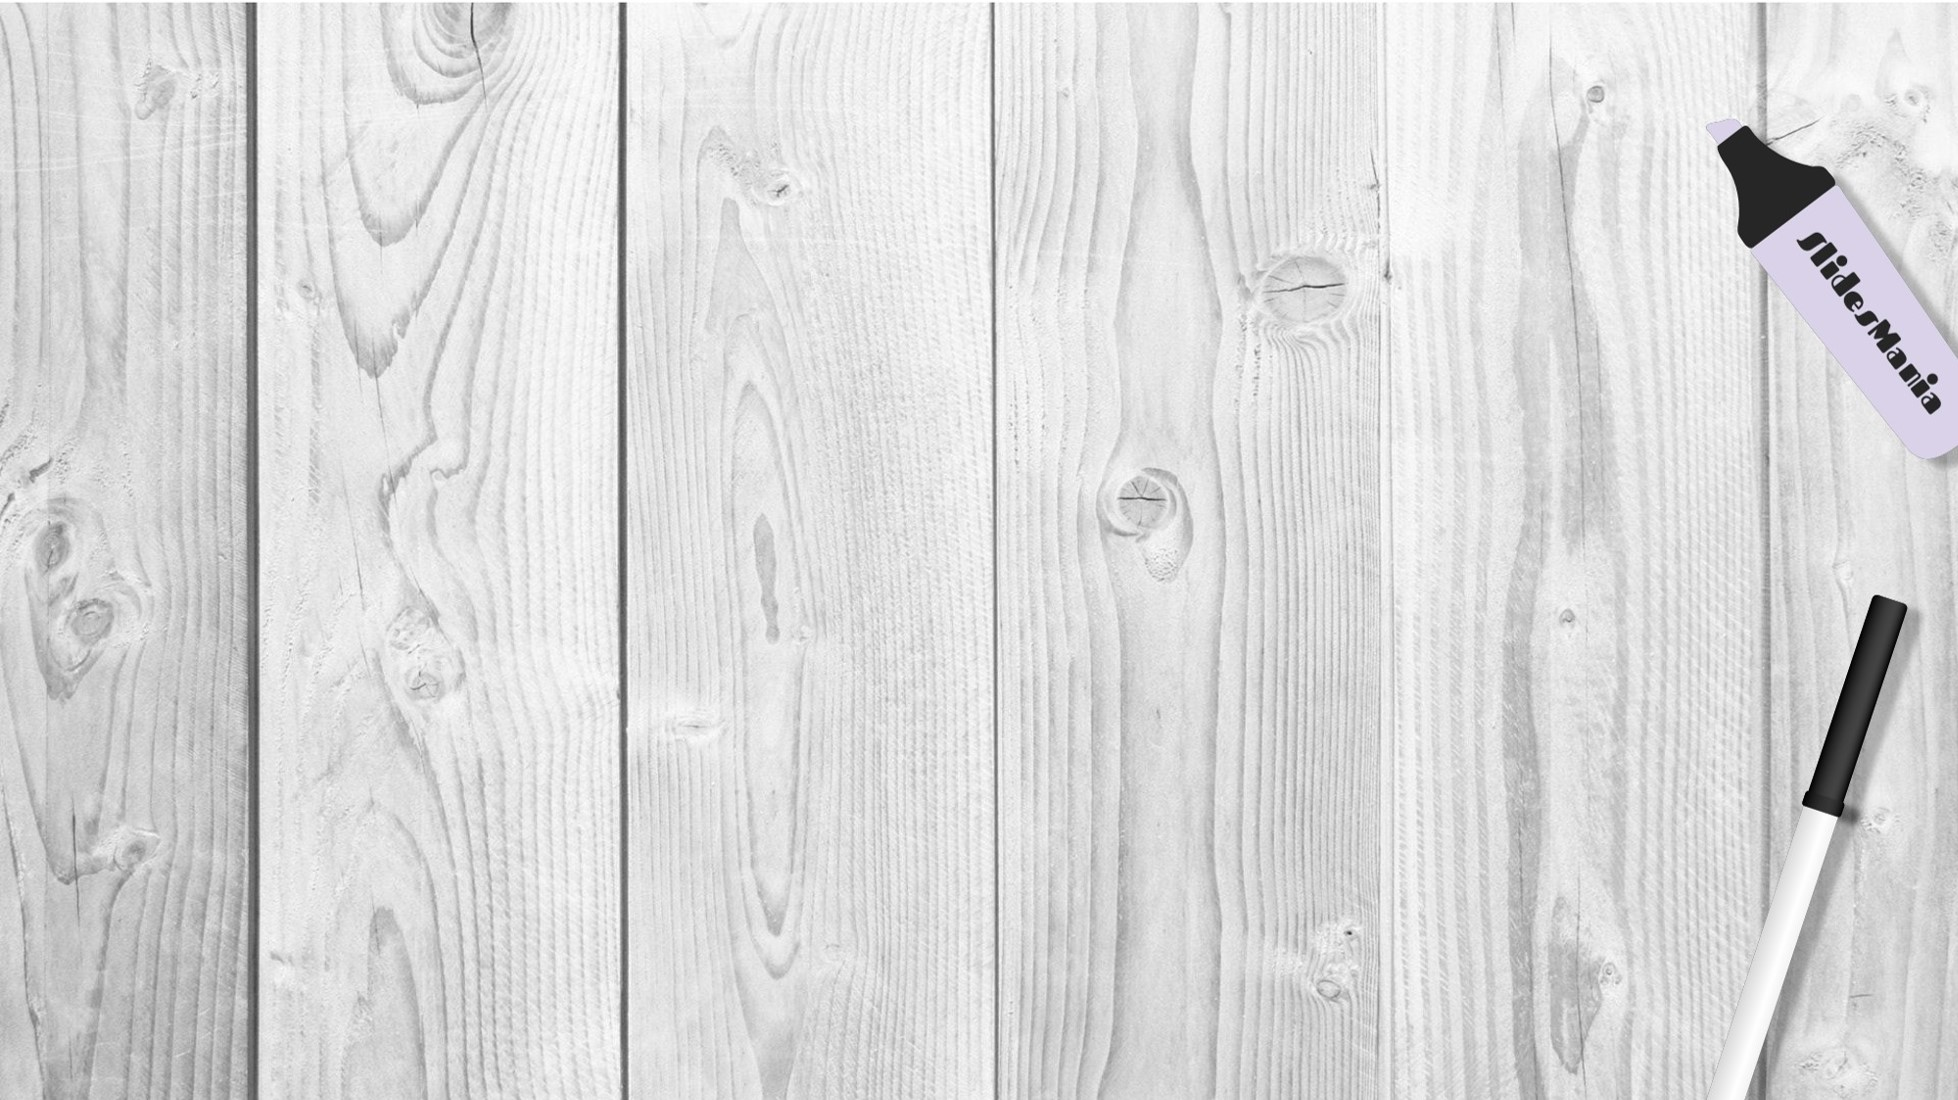
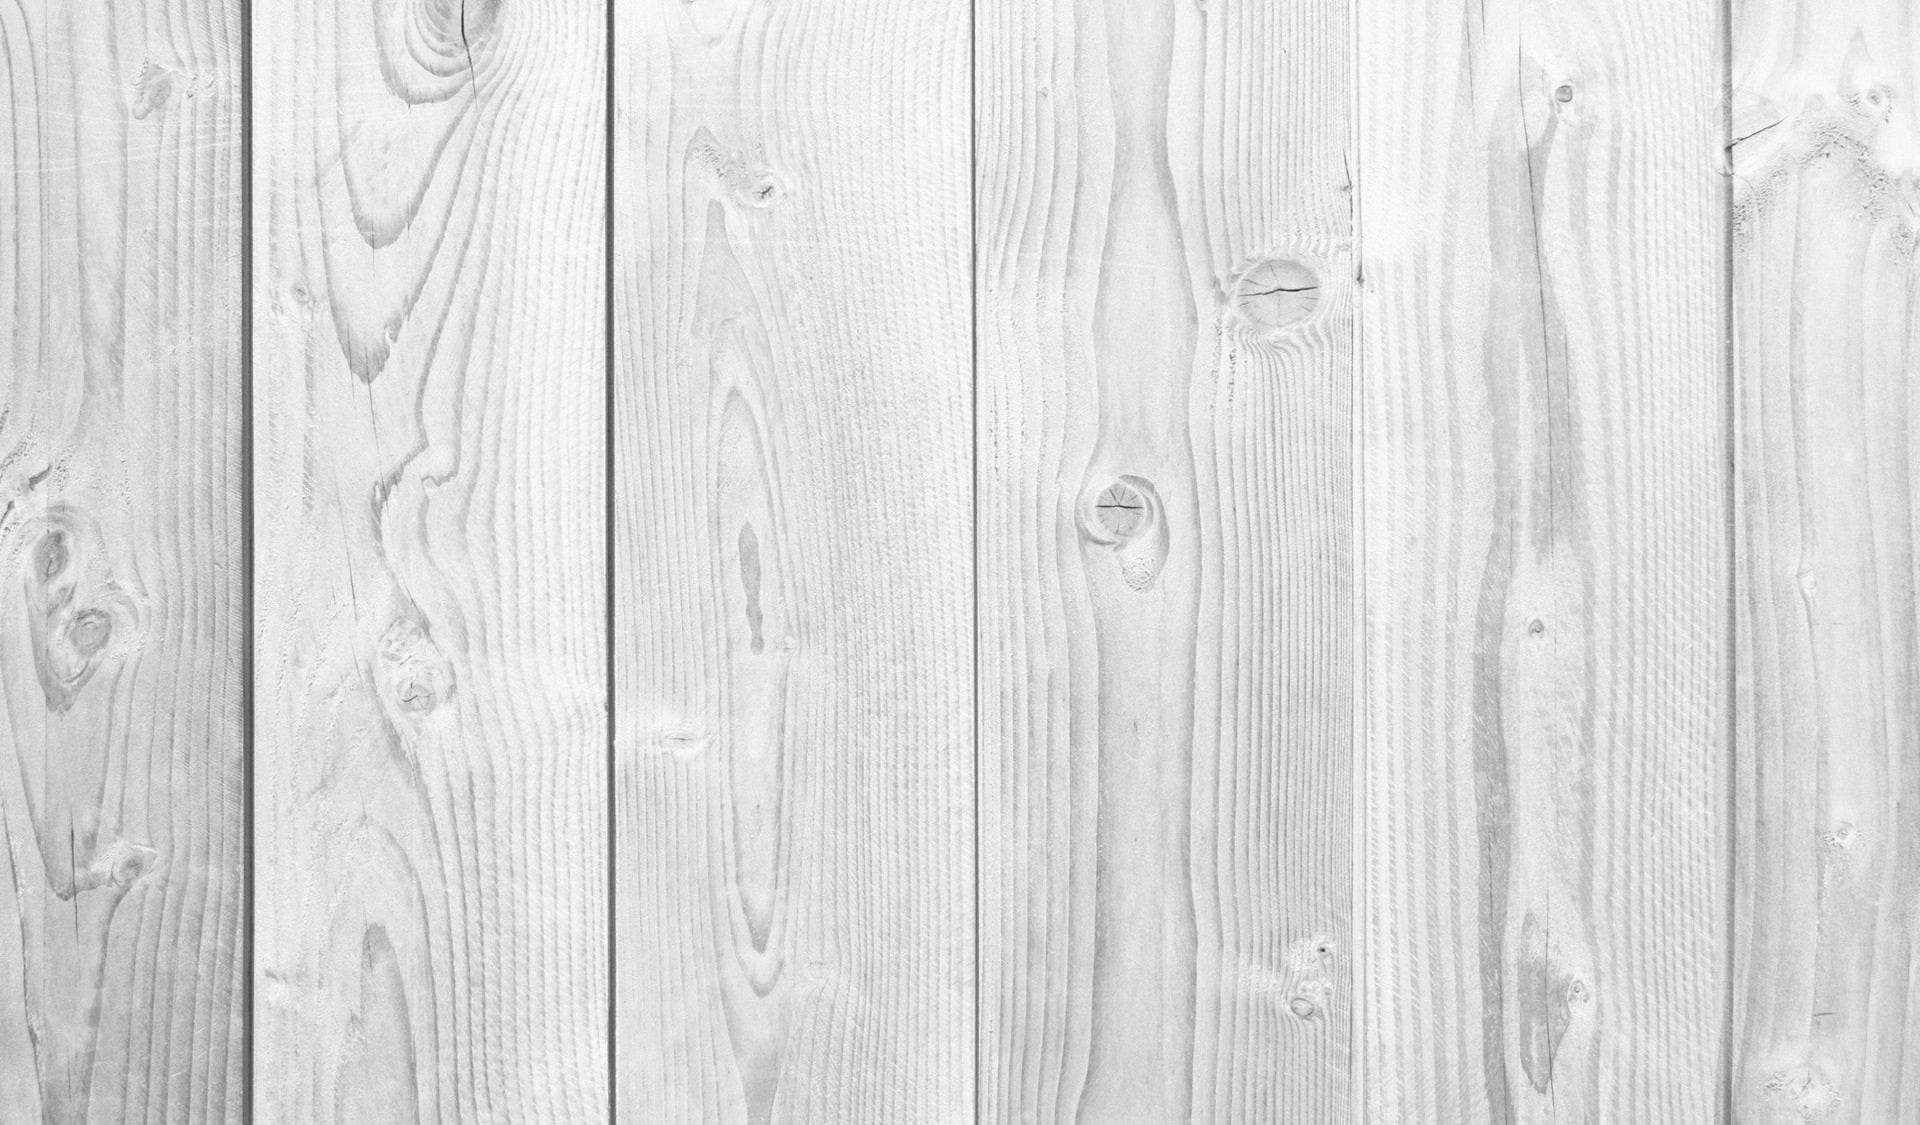
new commit

diff --git a/src/index.css b/src/index.css
@@ -11,8 +11,9 @@ body {
   -moz-osx-font-smoothing: grayscale;
   overflow: hidden;
   background-image: url("../assets/media/tableBG.jpg");
-  background-size: cover;
-  background-repeat: no-repeat;
+  background-size: auto;
+  background-repeat-x: repeat;
+  background-repeat-y: no-repeat;;
   direction: rtl;
   color: rgb(54,53,53);
 }

diff --git a/src/components/Pages/DiscriptionPage/Discription/Discription.module.css b/src/components/Pages/DiscriptionPage/Discription/Discription.module.css
@@ -20,7 +20,7 @@
   }
   
   .details-container {
-      width: 200px;
+      width: 50%;
       margin-top: 54px;
       margin-right: 260px;
       position: absolute;

diff --git a/src/components/Pages/DiscriptionPage/DiscriptionPage.module.css b/src/components/Pages/DiscriptionPage/DiscriptionPage.module.css
@@ -14,7 +14,7 @@
 
 .buffer {
   position: absolute;
-  top: 51%;
+  top: 325px;
   left: 50%;
   transform: translate(-50%, -50%);
   width: 90%;
